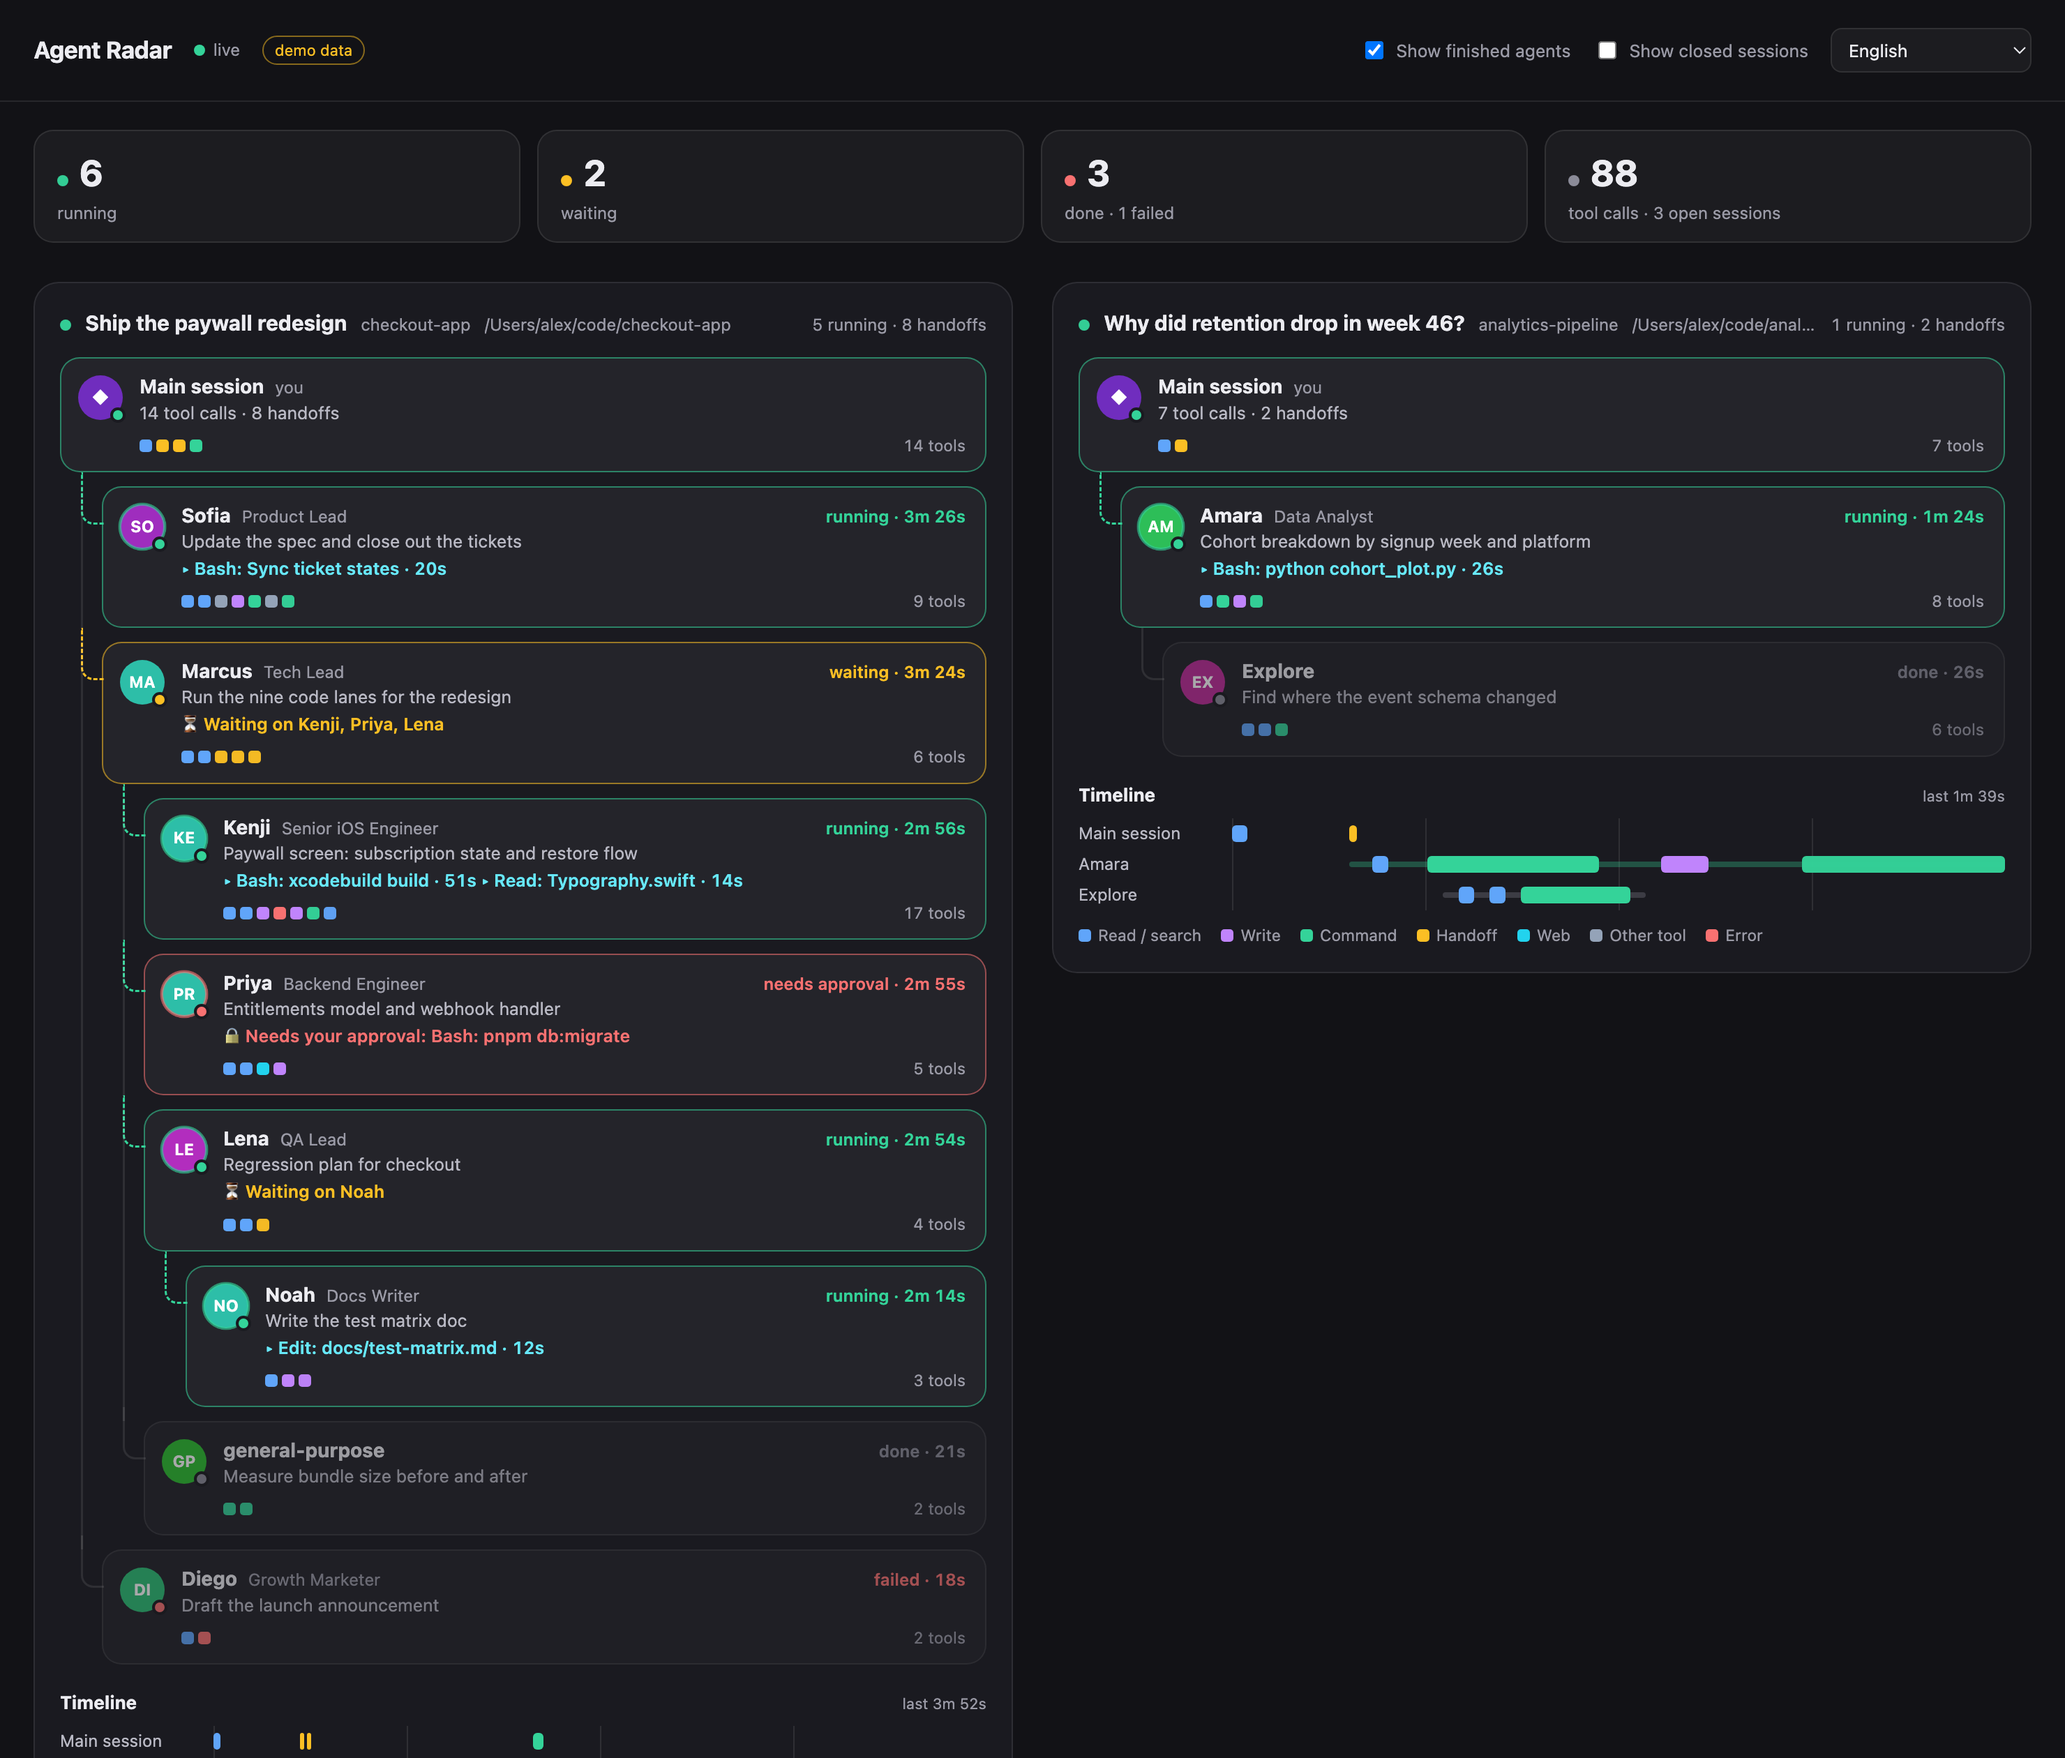
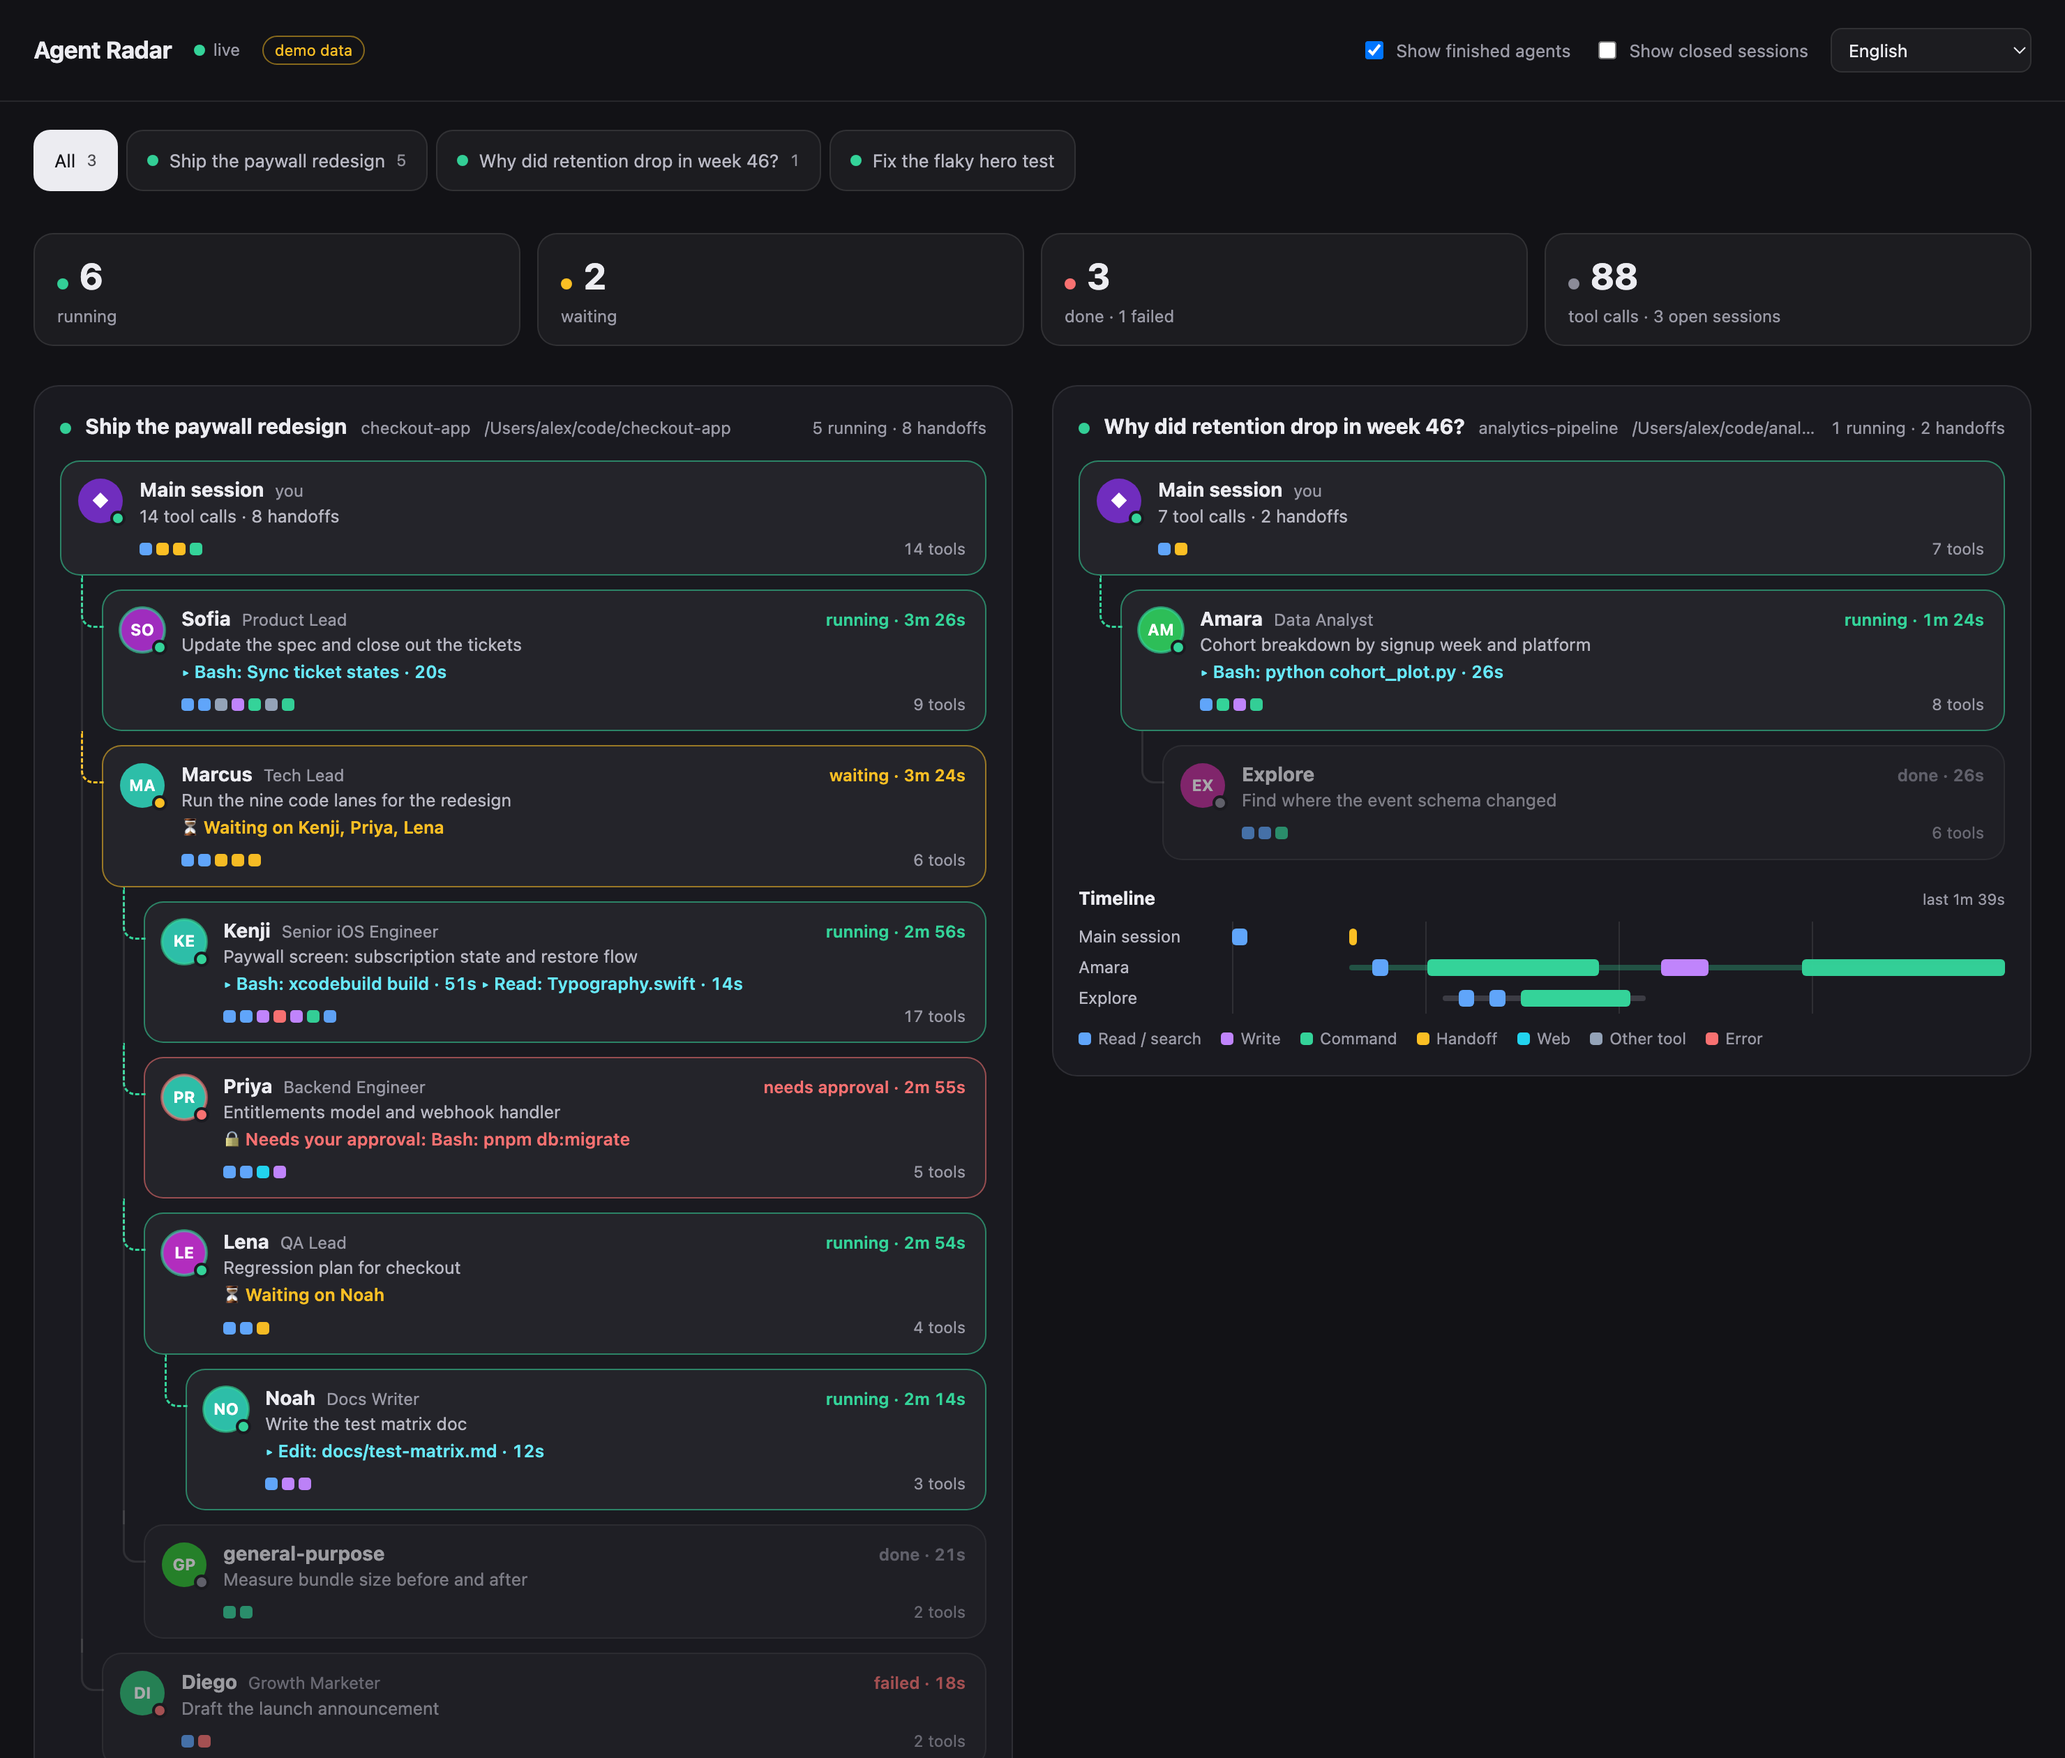
Web page: one tab per session plus All; sessions keep a fixed order
Sessions were sorted by their last update, so the page reshuffled every
second while agents worked. They now keep the order the page first saw
them in, and a tab shows a single session on its own.

diff --git a/web/index.html b/web/index.html
@@ -92,6 +92,15 @@ section.session.dead { opacity: .55; }
 .lane .bar { position: absolute; top: 5px; height: 12px; border-radius: 3px; min-width: 3px; }
 .legend { display: flex; gap: 14px; flex-wrap: wrap; color: var(--dim); font-size: 11.5px; margin-top: 10px; }
 .legend span { display: inline-flex; gap: 5px; align-items: center; }
+.tabs { display: flex; gap: 6px; overflow-x: auto; padding-bottom: 2px; scrollbar-width: thin; }
+.tab { flex: none; display: inline-flex; align-items: center; gap: 8px; min-height: 44px; padding: 0 14px; border-radius: 12px;
+  border: 1px solid var(--line); background: var(--card); color: var(--soft); font: inherit; font-size: 13px; cursor: pointer; max-width: 280px; }
+.tab:hover { color: var(--text); }
+.tab.on { background: var(--text); color: var(--bg); border-color: var(--text); }
+.tab .lbl { overflow: hidden; text-overflow: ellipsis; white-space: nowrap; }
+.tab .n { font-variant-numeric: tabular-nums; font-size: 11.5px; opacity: .75; }
+.tab.dead { opacity: .55; }
+.sessions.one { grid-template-columns: minmax(0, 1fr); }
 .empty { color: var(--dim); text-align: center; padding: 56px 16px; border: 1px dashed var(--line); border-radius: 18px; }
 .empty b { color: var(--text); display: block; font-size: 15px; margin-bottom: 6px; }
 @media (max-width: 640px) { .tiles { grid-template-columns: repeat(2, minmax(0, 1fr)); } main, header { padding-left: 16px; padding-right: 16px; } }
@@ -112,6 +121,7 @@ select.lang { background: var(--card); color: var(--text); border: 1px solid var
   <select class="lang" id="lang" aria-label="Language"></select>
 </header>
 <main>
+  <nav class="tabs" id="tabs" role="tablist"></nav>
   <div class="tiles" id="tiles"></div>
   <div class="sessions" id="sessions"></div>
 </main>
@@ -129,6 +139,11 @@ const STATUS = {
 const KINDS = { read: 'kRead', write: 'kWrite', run: 'kRun', handoff: 'kHandoff', web: 'kWeb', other: 'kOther', error: 'kError' }
 const open = new Set()
 let data = null, skew = 0, lastOk = 0
+// The selected tab: 'all' or a session's sid. Sessions keep the order in which
+// the page first saw them, so the one that updated last does not jump around.
+let tab = query.get('tab') || 'all'
+try { tab = query.get('tab') || localStorage.getItem('agent-radar-tab') || 'all' } catch {}
+const order = new Map()
 let lang = pickLang(query.get('lang') || localStorage.getItem('agent-radar-lang') || navigator.language)
 const T = (key, params) => tr(lang, key, params)
 
@@ -254,8 +269,20 @@ function render() {
   if (!data) return
   const withDone = document.getElementById('optDone').checked
   const withDead = document.getElementById('optDead').checked
+  for (const s of data.sessions) if (!order.has(s.sid)) order.set(s.sid, order.size)
   const shown = data.sessions.filter(s => s.isAlive || withDead)
-  const alive = shown.filter(s => s.isAlive)
+    .sort((a, b) => Number(b.isAlive) - Number(a.isAlive) || order.get(a.sid) - order.get(b.sid))
+  if (tab !== 'all' && !shown.some(s => s.sid === tab)) tab = 'all'
+  const tabsHtml = [`<button class="tab${tab === 'all' ? ' on' : ''}" data-tab="all" role="tab" aria-selected="${tab === 'all'}"><span class="lbl">${esc(T('tabAll'))}</span><span class="n">${shown.length}</span></button>`,
+    ...shown.map(s => {
+      const run = s.runs.filter(r => r.status === 'running' || r.status === 'pending').length
+      const name = s.title || (s.cwd || '').split('/').filter(Boolean).pop() || T('untitled')
+      return `<button class="tab${tab === s.sid ? ' on' : ''}${s.isAlive ? '' : ' dead'}" data-tab="${esc(s.sid)}" role="tab" aria-selected="${tab === s.sid}" title="${esc(s.cwd)}"><span class="dot ${s.isAlive ? (run ? 'green pulse' : 'green') : ''}"></span><span class="lbl">${esc(name)}</span>${run ? `<span class="n">${run}</span>` : ''}</button>`
+    })].join('')
+  const tabsEl = document.getElementById('tabs')
+  if (tabsEl.dataset.html !== tabsHtml) { tabsEl.innerHTML = tabsHtml; tabsEl.dataset.html = tabsHtml }
+  const view = tab === 'all' ? shown : shown.filter(s => s.sid === tab)
+  const alive = view.filter(s => s.isAlive)
   const all = alive.flatMap(s => s.runs)
   const running = all.filter(r => r.status === 'running' || r.status === 'pending').length
   const waiting = all.filter(r => r.status === 'waiting' || r.status === 'idle' || r.ask).length
@@ -264,11 +291,12 @@ function render() {
   const tools = alive.reduce((n, s) => n + s.root.toolCount + s.runs.reduce((m, r) => m + r.toolCount, 0), 0)
   document.getElementById('tiles').innerHTML = [
     ['green' + (running ? ' pulse' : ''), running, T('tileRunning')], ['amber', waiting, T('tileWaiting')],
-    [failed ? 'red' : '', done, failed ? T('tileDoneErr', { n: failed }) : T('tileDone')], ['', tools, T('tileToolsSessions', { n: alive.length })],
+    [failed ? 'red' : '', done, failed ? T('tileDoneErr', { n: failed }) : T('tileDone')], ['', tools, tab === 'all' ? T('tileToolsSessions', { n: alive.length }) : T('tileTools')],
   ].map(([c, n, l]) => `<div class="tile"><span class="dot ${c}" style="display:inline-block"></span><b>${n}</b><span>${esc(l)}</span></div>`).join('')
   const box = document.getElementById('sessions')
   const scrolls = new Map([...box.querySelectorAll('.card[data-key] .hist')].map(h => [h.parentElement.dataset.key, h.scrollTop]))
-  box.innerHTML = shown.length ? shown.map(s => sessionHtml(s, now, withDone)).join('')
+  box.classList.toggle('one', tab !== 'all')
+  box.innerHTML = view.length ? view.map(s => sessionHtml(s, now, withDone)).join('')
     : `<div class="empty"><b>${esc(T('emptyTitle'))}</b>${esc(T('emptyBody'))}${data.sessions.length ? ' ' + esc(T('emptyClosed')) : ''}</div>`
   for (const h of box.querySelectorAll('.card[data-key] .hist')) h.scrollTop = scrolls.get(h.parentElement.dataset.key) ?? 0
 }
@@ -279,6 +307,13 @@ document.getElementById('sessions').addEventListener('click', e => {
   if (!card) return
   const k = card.dataset.key
   open.has(k) ? open.delete(k) : open.add(k)
+  render()
+})
+document.getElementById('tabs').addEventListener('click', e => {
+  const b = e.target.closest('[data-tab]')
+  if (!b) return
+  tab = b.dataset.tab
+  try { localStorage.setItem('agent-radar-tab', tab) } catch {}
   render()
 })
 for (const id of ['optDone', 'optDead']) document.getElementById(id).addEventListener('change', render)

diff --git a/web/i18n.js b/web/i18n.js
@@ -72,7 +72,8 @@ export const MESSAGES = {
   "demoBadge": "Demodaten",
   "uSec": "s",
   "uMin": "min",
-  "uHour": "h"
+  "uHour": "h",
+  "tabAll": "Alle"
  },
  "en": {
   "appName": "Agent Radar",
@@ -146,7 +147,8 @@ export const MESSAGES = {
   "demoBadge": "demo data",
   "uSec": "s",
   "uMin": "m",
-  "uHour": "h"
+  "uHour": "h",
+  "tabAll": "All"
  },
  "es": {
   "appName": "Agent Radar",
@@ -220,7 +222,8 @@ export const MESSAGES = {
   "demoBadge": "datos de demo",
   "uSec": "s",
   "uMin": "min",
-  "uHour": "h"
+  "uHour": "h",
+  "tabAll": "Todas"
  },
  "fr": {
   "appName": "Agent Radar",
@@ -294,7 +297,8 @@ export const MESSAGES = {
   "demoBadge": "données de démo",
   "uSec": "s",
   "uMin": "min",
-  "uHour": "h"
+  "uHour": "h",
+  "tabAll": "Toutes"
  },
  "it": {
   "appName": "Agent Radar",
@@ -368,7 +372,8 @@ export const MESSAGES = {
   "demoBadge": "dati demo",
   "uSec": "s",
   "uMin": "min",
-  "uHour": "h"
+  "uHour": "h",
+  "tabAll": "Tutte"
  },
  "ja": {
   "appName": "Agent Radar",
@@ -442,7 +447,8 @@ export const MESSAGES = {
   "demoBadge": "デモデータ",
   "uSec": "秒",
   "uMin": "分",
-  "uHour": "時間"
+  "uHour": "時間",
+  "tabAll": "すべて"
  },
  "ko": {
   "appName": "Agent Radar",
@@ -516,7 +522,8 @@ export const MESSAGES = {
   "demoBadge": "데모 데이터",
   "uSec": "초",
   "uMin": "분",
-  "uHour": "시간"
+  "uHour": "시간",
+  "tabAll": "전체"
  },
  "nl": {
   "appName": "Agent Radar",
@@ -590,7 +597,8 @@ export const MESSAGES = {
   "demoBadge": "demogegevens",
   "uSec": "s",
   "uMin": "min",
-  "uHour": "u"
+  "uHour": "u",
+  "tabAll": "Alle"
  },
  "pl": {
   "appName": "Agent Radar",
@@ -664,7 +672,8 @@ export const MESSAGES = {
   "demoBadge": "dane demo",
   "uSec": "s",
   "uMin": "min",
-  "uHour": "h"
+  "uHour": "h",
+  "tabAll": "Wszystkie"
  },
  "pt-BR": {
   "appName": "Agent Radar",
@@ -738,7 +747,8 @@ export const MESSAGES = {
   "demoBadge": "dados de demonstração",
   "uSec": "s",
   "uMin": "min",
-  "uHour": "h"
+  "uHour": "h",
+  "tabAll": "Todas"
  },
  "ru": {
   "appName": "Agent Radar",
@@ -812,7 +822,8 @@ export const MESSAGES = {
   "demoBadge": "демо-данные",
   "uSec": "с",
   "uMin": "мин",
-  "uHour": "ч"
+  "uHour": "ч",
+  "tabAll": "Все"
  },
  "sv": {
   "appName": "Agent Radar",
@@ -886,7 +897,8 @@ export const MESSAGES = {
   "demoBadge": "demodata",
   "uSec": "s",
   "uMin": "min",
-  "uHour": "h"
+  "uHour": "h",
+  "tabAll": "Alla"
  },
  "tr": {
   "appName": "Agent Radar",
@@ -960,7 +972,8 @@ export const MESSAGES = {
   "demoBadge": "örnek veri",
   "uSec": "sn",
   "uMin": "dk",
-  "uHour": "sa"
+  "uHour": "sa",
+  "tabAll": "Tümü"
  },
  "zh-Hans": {
   "appName": "Agent Radar",
@@ -1034,7 +1047,8 @@ export const MESSAGES = {
   "demoBadge": "演示数据",
   "uSec": "秒",
   "uMin": "分",
-  "uHour": "时"
+  "uHour": "时",
+  "tabAll": "全部"
  }
 }
 

diff --git a/README.md b/README.md
@@ -26,6 +26,7 @@ It is a Claude Code plugin with two views fed by the same data:
 | **Timeline** | One lane per agent, tool calls as bars over time. You see who was busy, who sat idle, and where the failed build ate a minute. |
 | **Tool history** | Click a card (press its button in the pane) for that agent's recent calls, newest first. |
 | **Session name** | Each session leads with its own title, then its project folder. |
+| **Tabs** | One tab per open session plus **All**. A tab shows one session alone; sessions keep a fixed order, so the page does not jump as they update. |
 
 <p>
   <img src="docs/screenshots/history.png" width="49%" alt="A card opened to show an agent's tool history">
